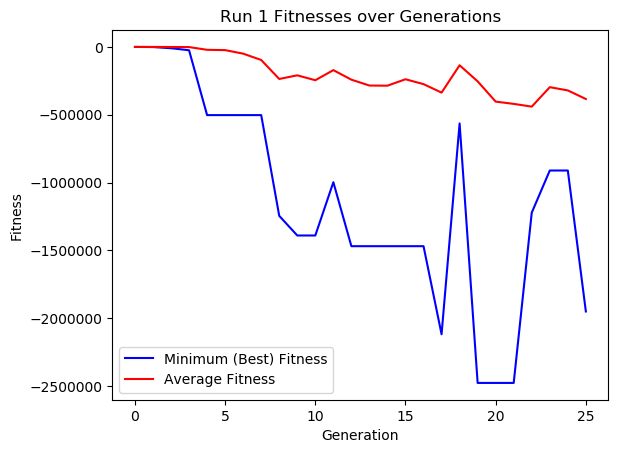
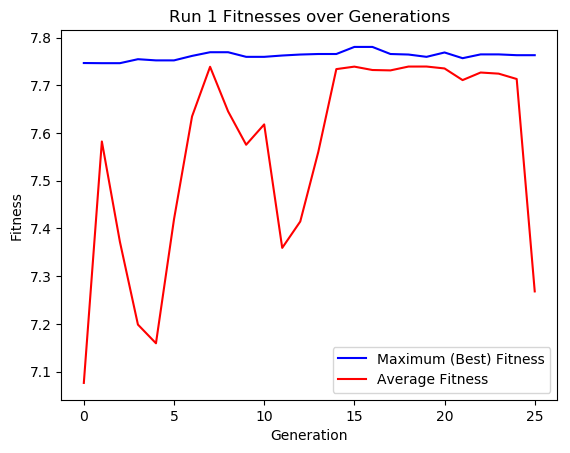
Added braking to the constant speed controller and regenerated plots for new fitness function exp

diff --git a/autorally/autorally_control/src/ConstantSpeedController/ConstantSpeedController.cpp b/autorally/autorally_control/src/ConstantSpeedController/ConstantSpeedController.cpp
@@ -130,13 +130,28 @@ void ConstantSpeedController::wheelSpeedsCallback(const autorally_msgs::wheelSpe
     speed = -1 * m_mostRecentSpeedCommand.data;
   }
   
+  
+  double abs_goal_speed = std::abs(m_mostRecentSpeedCommand.data);
+  double abs_front_wheel_speed = std::abs(m_frontWheelsSpeed);
+  
+  
+  
+  // braking
+  double speed_diff = abs_goal_speed - abs_front_wheel_speed;
+  if (speed_diff < 0 || !((0 > m_mostRecentSpeedCommand.data) == (0 > m_frontWheelsSpeed)) )
+  //if (!((0 > m_mostRecentSpeedCommand.data) == (0 > m_frontWheelsSpeed)) )
+  {
+	  //command->frontBrake = std::max(0.0, std::min(1.0, std::abs(speed_diff)));
+	  command->frontBrake = 1.0;
+  }
+  
 
-  if (speed > 0.1)
+  if (abs_goal_speed > 0.1 && abs_goal_speed < 99)
   {
     double p;
-    if(m_throttleMappings.interpolateKey(speed, p))
+    if(m_throttleMappings.interpolateKey(abs_goal_speed, p))
     {
-      m_integralError += speed - m_frontWheelsSpeed;
+      m_integralError += abs_goal_speed - abs_front_wheel_speed;
       if (m_integralError > (m_constantSpeedIMax / m_constantSpeedKI))
       {
         m_integralError = (m_constantSpeedIMax / m_constantSpeedKI);
@@ -148,16 +163,16 @@ void ConstantSpeedController::wheelSpeedsCallback(const autorally_msgs::wheelSpe
       }
 
       command->throttle = p +
-                 m_constantSpeedKP*(speed - m_frontWheelsSpeed);
+                 m_constantSpeedKP*(abs_goal_speed - abs_front_wheel_speed);
       command->throttle += m_constantSpeedKI * m_integralError;
       command->throttle = std::max(0.0, std::min(1.0, command->throttle));
 
-      //NODELET_INFO("interp %f, command %f",p, command->throttle);
+      // NODELET_INFO("interp %f, command %f",p, command->throttle);
       m_constantSpeedPrevThrot = p;
     }
     else
     {
-      NODELET_WARN("ConstantSpeedController could not interpolate speed %f", m_mostRecentSpeedCommand.data);
+      NODELET_WARN("base_controller_nodelet could not interpolate speed %f", m_mostRecentSpeedCommand.data);
       command->throttle = 0;
     }
   }
@@ -166,10 +181,10 @@ void ConstantSpeedController::wheelSpeedsCallback(const autorally_msgs::wheelSpe
     command->throttle = 0;
     
   }
-
+  
   //command->throttle = 1.0;
   //ROS_ERROR("Speed command: %f", command->throttle);
-  if (m_mostRecentSpeedCommand.data != -99)
+  if (abs_goal_speed != -99)
   {
     m_chassisCommandPub.publish(command);
   }

diff --git a/msu_autorally/evo_ros2/src/EAs/logs/PID-Tuning-Cubed-Fitness/generate_plots.py b/msu_autorally/evo_ros2/src/EAs/logs/PID-Tuning-Cubed-Fitness/generate_plots.py
@@ -35,7 +35,7 @@ class plot_generator():
 		
 		
 		run_multiple = True
-		self.number_runs = 1
+		self.number_runs = 2
 		
 		
 		if run_multiple:
@@ -81,11 +81,13 @@ class plot_generator():
 		self.summary_log_dict['gen'] = list()
 		self.summary_log_dict['avg'] = list()
 		self.summary_log_dict['min'] = list()
+		self.summary_log_dict['max'] = list()
 		for gen in self.summary_log:
 			gen = dict(gen)
 			self.summary_log_dict['gen'].append(gen['gen'])
 			self.summary_log_dict['avg'].append(gen['avg'])
 			self.summary_log_dict['min'].append(gen['min'])
+			self.summary_log_dict['max'].append(gen['max'])
 			
 
 	### Create run plots ###
@@ -94,11 +96,11 @@ class plot_generator():
 		# Fitnesses of Population over Generations
 		gen = self.summary_log_dict['gen']
 		avg_fit = self.summary_log_dict['avg']
-		best_fit = self.summary_log_dict['min']
+		best_fit = self.summary_log_dict['max']
 
 		print('Preparing plot 1...')
 		fig, ax1 = plt.subplots()
-		line1 = ax1.plot(gen, best_fit, "b-", label="Minimum (Best) Fitness")
+		line1 = ax1.plot(gen, best_fit, "b-", label="Maximum (Best) Fitness")
 		ax1.set_xlabel("Generation")
 		ax1.set_ylabel("Fitness")
 		line2 = ax1.plot(gen, avg_fit, "r-", label="Average Fitness")
@@ -131,7 +133,7 @@ class plot_generator():
 		# Just best fitness over generations
 		print('Preparing plot 3...')
 		fig3, ax3 = plt.subplots()
-		line1 = ax3.plot(gen, best_fit, "b-", label="Minimum (Best) Fitness")
+		line1 = ax3.plot(gen, best_fit, "b-", label="Maximum (Best) Fitness")
 		ax3.set_xlabel("Generation")
 		ax3.set_ylabel("Fitness")
 		lns = line1

diff --git a/msu_autorally/evo_ros2/src/EAs/test_single_PID.py b/msu_autorally/evo_ros2/src/EAs/test_single_PID.py
@@ -49,7 +49,7 @@ class DEAP_EA():
 		
 		# EA Params
 		self.experiment_name = "PID-Testing"
-		self.run_number = '_jumpy_signal_run2_parameters'
+		self.run_number = '_new_braking'
 		#self.ind = [0.2, 0.0, 0.001, 0.15] #Default
 		self.ind = [0.978905837000845, 0.07513378343124555, 0.04569592282669355, 0.5116667627180238] # Run 2 
 		
